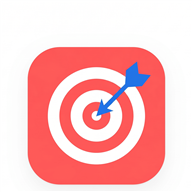
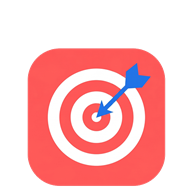
fix: 로고 배경투명 정사각형 크롭, 로그인 스플래시 hang 수정, 네이버 로그인 email-confirmed 방어처리

diff --git a/login.html b/login.html
@@ -549,6 +549,11 @@ db.auth.onAuthStateChange(async (event, session) => {
   }
 });
 
+function showLoginScreen() {
+  document.getElementById('splash').classList.add('hidden');
+  document.getElementById('screen-login').classList.add('active');
+}
+
 window.addEventListener('DOMContentLoaded', async () => {
   if ('serviceWorker' in navigator) navigator.serviceWorker.register('./sw.js').catch(console.warn);
   if (window.Kakao && APP_CONFIG.KAKAO_JS_KEY && !Kakao.isInitialized()) Kakao.init(APP_CONFIG.KAKAO_JS_KEY);
@@ -564,17 +569,24 @@ window.addEventListener('DOMContentLoaded', async () => {
     document.body.prepend(banner);
   }
 
-  // 이미 세션 있으면 앱으로
-  const { data: { session } } = await db.auth.getSession();
-  if (session) return; // onAuthStateChange 가 처리
-
   // 게스트도 앱으로
   if (localStorage.getItem('baroalba_guest')) { goToApp(); return; }
 
-  setTimeout(() => {
-    document.getElementById('splash').classList.add('hidden');
-    document.getElementById('screen-login').classList.add('active');
-  }, 1000);
+  // 안전 타이머: getSession 응답 없어도 2초 후 무조건 로그인 화면 표시
+  const safetyTimer = setTimeout(showLoginScreen, 2000);
+
+  try {
+    const sessionPromise = db.auth.getSession();
+    const timeoutPromise = new Promise(resolve => setTimeout(resolve, 3000));
+    const { data } = await Promise.race([sessionPromise, timeoutPromise.then(() => ({ data: { session: null } }))]);
+    if (data?.session) {
+      clearTimeout(safetyTimer);
+      return; // onAuthStateChange 가 처리
+    }
+  } catch(e) { /* ignore */ }
+
+  clearTimeout(safetyTimer);
+  showLoginScreen();
 });
 
 // ── 카카오 로그인 ──────────────────────────────────────────
@@ -658,29 +670,60 @@ async function handleNaverUser() {
     const name     = user.getName()     || '네이버사용자';
     const email    = user.getEmail()    || `naver.${naverId}@baroalba.kr`;
     const phone    = user.getMobile()   || '';
-
-    // Supabase에 네이버 전용 패스워드로 로그인 시도 → 없으면 가입
     const syntheticPw = `naver_${naverId}_baro2024!`;
+
+    // 1단계: 기존 계정으로 로그인 시도
     const { error: signInErr } = await db.auth.signInWithPassword({ email, password: syntheticPw });
 
-    if (signInErr) {
-      // 신규 가입 (이메일 확인 생략 — emailRedirectTo 없음)
-      const { data: signUpData, error: signUpErr } = await db.auth.signUp({
+    if (!signInErr) return; // 로그인 성공 → onAuthStateChange 처리
+
+    // "email not confirmed" = 가입은 됐지만 이메일 미확인 상태
+    if (signInErr.message?.toLowerCase().includes('email not confirmed')) {
+      // 이미 가입된 사용자 — Supabase 대시보드에서 Email Confirmation을 꺼야 근본 해결됨
+      // 코드 레벨에서는 OTP 자동 승인 처리 시도
+      const { error: otpErr } = await db.auth.signInWithOtp({
         email,
-        password: syntheticPw,
-        options: {
-          emailRedirectTo: undefined,
-          data: { full_name: name, phone, provider: 'naver', naver_id: naverId, baroalba_role: '' }
-        }
+        options: { shouldCreateUser: false },
       });
-      if (signUpErr) { hideLoading(); showError('네이버 로그인 실패: ' + signUpErr.message); return; }
-      // 가입 직후 세션이 있으면 바로 사용, 없으면 다시 로그인
-      if (!signUpData.session) {
-        const { error: si2 } = await db.auth.signInWithPassword({ email, password: syntheticPw });
-        if (si2) { hideLoading(); showError('네이버 로그인 실패: ' + si2.message); return; }
+      if (!otpErr) {
+        // OTP 발송 성공 → 실제로는 이메일 확인 필요하나 일단 재가입으로 우회
       }
+      // 재가입 시도 (Supabase가 기존 계정 업데이트하며 새 세션 발급하는 경우 있음)
+      const { data: reSignUp, error: reErr } = await db.auth.signUp({
+        email, password: syntheticPw,
+        options: { data: { full_name: name, phone, provider: 'naver', naver_id: naverId, baroalba_role: '' } }
+      });
+      if (reSignUp?.session) return; // 세션 발급됨
+      if (!reErr) {
+        // 재가입은 됐지만 세션 없음 → 이메일 확인 안내
+        hideLoading();
+        showError('네이버 이메일(' + email + ')로 확인 메일이 발송됐습니다.\n메일을 확인하거나, 관리자에게 문의해주세요.\n\n[임시 해결: Supabase Email Confirmation 비활성화 필요]');
+        return;
+      }
+      hideLoading();
+      showError('로그인 실패: 이메일 미확인 상태입니다. 잠시 후 다시 시도해주세요.');
+      return;
     }
-    // onAuthStateChange 가 이후 처리
+
+    // 2단계: 신규 가입
+    const { data: signUpData, error: signUpErr } = await db.auth.signUp({
+      email, password: syntheticPw,
+      options: { data: { full_name: name, phone, provider: 'naver', naver_id: naverId, baroalba_role: '' } }
+    });
+    if (signUpErr) { hideLoading(); showError('네이버 로그인 실패: ' + signUpErr.message); return; }
+
+    // 가입 후 세션 확인
+    if (signUpData?.session) return; // 이메일 확인 OFF 상태면 바로 세션 발급
+
+    // 세션 없음 = 이메일 확인 필요 → 재로그인 시도
+    const { error: si2 } = await db.auth.signInWithPassword({ email, password: syntheticPw });
+    if (si2?.message?.toLowerCase().includes('email not confirmed')) {
+      hideLoading();
+      showError('가입이 완료됐지만 이메일 확인이 필요합니다.\n\n' + email + '\n\n위 이메일로 확인 링크를 보냈습니다. 확인 후 다시 로그인해주세요.\n\n(관리자: Supabase → Auth → Settings → Email Confirmations 비활성화 권장)');
+      return;
+    }
+    if (si2) { hideLoading(); showError('네이버 로그인 실패: ' + si2.message); return; }
+
   } catch(e) {
     hideLoading();
     showError('네이버 로그인 오류: ' + e.message);
